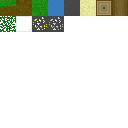
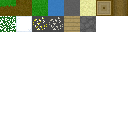
Added new blocks

Changed region(s): [[0.5, 0.0, 0.75, 0.25]]

diff --git a/Source/Block/ChunkMesh.cpp b/Source/Block/ChunkMesh.cpp
@@ -9,10 +9,13 @@ const std::vector<Block> blocks = {
 	{ "Grass", { { 2.f / (float)TEXTURE_ATLAS_SIZE, 0.f }, { 1.f / (float)TEXTURE_ATLAS_SIZE, 0.f }, { 0.f, 0.f }, { 0.f, 0.f }, { 0.f, 0.f }, { 0.f, 0.f } } },
 	{ "Dirt", { { 1.f / (float)TEXTURE_ATLAS_SIZE, 0.f }, { 1.f / (float)TEXTURE_ATLAS_SIZE, 0.f }, { 1.f / (float)TEXTURE_ATLAS_SIZE, 0.f }, { 1.f / (float)TEXTURE_ATLAS_SIZE, 0.f }, { 1.f / (float)TEXTURE_ATLAS_SIZE, 0.f }, { 1.f / (float)TEXTURE_ATLAS_SIZE, 0.f } } },
 	{ "Stone", { { 4.f / (float)TEXTURE_ATLAS_SIZE, 0.f }, { 4.f / (float)TEXTURE_ATLAS_SIZE, 0.f }, { 4.f / (float)TEXTURE_ATLAS_SIZE, 0.f }, { 4.f / (float)TEXTURE_ATLAS_SIZE, 0.f }, { 4.f / (float)TEXTURE_ATLAS_SIZE, 0.f }, { 4.f / (float)TEXTURE_ATLAS_SIZE, 0.f } } },
-	{ "Water", { { 3.f / (float)TEXTURE_ATLAS_SIZE, 0.f }, { 3.f / (float)TEXTURE_ATLAS_SIZE, 0.f }, { 3.f / (float)TEXTURE_ATLAS_SIZE, 0.f }, { 3.f / (float)TEXTURE_ATLAS_SIZE, 0.f }, { 3.f / (float)TEXTURE_ATLAS_SIZE, 0.f }, { 3.f / (float)TEXTURE_ATLAS_SIZE, 0.f } }, Block::TRANSPARENT },
+	{ "Water", { { 3.f / (float)TEXTURE_ATLAS_SIZE, 0.f }, { 3.f / (float)TEXTURE_ATLAS_SIZE, 0.f }, { 3.f / (float)TEXTURE_ATLAS_SIZE, 0.f }, { 3.f / (float)TEXTURE_ATLAS_SIZE, 0.f }, { 3.f / (float)TEXTURE_ATLAS_SIZE, 0.f }, { 3.f / (float)TEXTURE_ATLAS_SIZE, 0.f } }, Block::Flags(Block::TRANSPARENT | Block::LIQUID) },
 	{ "Log", { { 6.f / (float)TEXTURE_ATLAS_SIZE, 0.f }, { 6.f / (float)TEXTURE_ATLAS_SIZE, 0.f }, { 7.f / (float)TEXTURE_ATLAS_SIZE, 0.f }, { 7.f / (float)TEXTURE_ATLAS_SIZE, 0.f }, { 7.f / (float)TEXTURE_ATLAS_SIZE, 0.f }, { 7.f / (float)TEXTURE_ATLAS_SIZE, 0.f } } },
 	{ "Leaves", { { 0.f, 1.f / (float)TEXTURE_ATLAS_SIZE }, { 0.f, 1.f / (float)TEXTURE_ATLAS_SIZE }, { 0.f, 1.f / (float)TEXTURE_ATLAS_SIZE }, { 0.f, 1.f / (float)TEXTURE_ATLAS_SIZE }, { 0.f, 1.f / (float)TEXTURE_ATLAS_SIZE }, { 0.f, 1.f / (float)TEXTURE_ATLAS_SIZE } }, Block::HOLES },
-	{ "Sand", { { 5.f / (float)TEXTURE_ATLAS_SIZE, 0.f }, { 5.f / (float)TEXTURE_ATLAS_SIZE, 0.f }, { 5.f / (float)TEXTURE_ATLAS_SIZE, 0.f }, { 5.f / (float)TEXTURE_ATLAS_SIZE, 0.f }, { 5.f / (float)TEXTURE_ATLAS_SIZE, 0.f }, { 5.f / (float)TEXTURE_ATLAS_SIZE, 0.f } } }
+	{ "Sand", { { 5.f / (float)TEXTURE_ATLAS_SIZE, 0.f }, { 5.f / (float)TEXTURE_ATLAS_SIZE, 0.f }, { 5.f / (float)TEXTURE_ATLAS_SIZE, 0.f }, { 5.f / (float)TEXTURE_ATLAS_SIZE, 0.f }, { 5.f / (float)TEXTURE_ATLAS_SIZE, 0.f }, { 5.f / (float)TEXTURE_ATLAS_SIZE, 0.f } } },
+	{ "Planks", { { 4.f / (float)TEXTURE_ATLAS_SIZE, 1.f / (float)TEXTURE_ATLAS_SIZE }, { 4.f / (float)TEXTURE_ATLAS_SIZE, 1.f / (float)TEXTURE_ATLAS_SIZE }, { 4.f / (float)TEXTURE_ATLAS_SIZE, 1.f / (float)TEXTURE_ATLAS_SIZE }, { 4.f / (float)TEXTURE_ATLAS_SIZE, 1.f / (float)TEXTURE_ATLAS_SIZE }, { 4.f / (float)TEXTURE_ATLAS_SIZE, 1.f / (float)TEXTURE_ATLAS_SIZE }, { 4.f / (float)TEXTURE_ATLAS_SIZE, 1.f / (float)TEXTURE_ATLAS_SIZE } } },
+	{ "Cobblestone", { { 5.f / (float)TEXTURE_ATLAS_SIZE, 1.f / (float)TEXTURE_ATLAS_SIZE }, { 5.f / (float)TEXTURE_ATLAS_SIZE, 1.f / (float)TEXTURE_ATLAS_SIZE }, { 5.f / (float)TEXTURE_ATLAS_SIZE, 1.f / (float)TEXTURE_ATLAS_SIZE }, { 5.f / (float)TEXTURE_ATLAS_SIZE, 1.f / (float)TEXTURE_ATLAS_SIZE }, { 5.f / (float)TEXTURE_ATLAS_SIZE, 1.f / (float)TEXTURE_ATLAS_SIZE }, { 5.f / (float)TEXTURE_ATLAS_SIZE, 1.f / (float)TEXTURE_ATLAS_SIZE } } },
+	{ "Glass", { { 1.f / (float)TEXTURE_ATLAS_SIZE, 1.f / (float)TEXTURE_ATLAS_SIZE }, { 1.f / (float)TEXTURE_ATLAS_SIZE, 1.f / (float)TEXTURE_ATLAS_SIZE }, { 1.f / (float)TEXTURE_ATLAS_SIZE, 1.f / (float)TEXTURE_ATLAS_SIZE }, { 1.f / (float)TEXTURE_ATLAS_SIZE, 1.f / (float)TEXTURE_ATLAS_SIZE }, { 1.f / (float)TEXTURE_ATLAS_SIZE, 1.f / (float)TEXTURE_ATLAS_SIZE }, { 1.f / (float)TEXTURE_ATLAS_SIZE, 1.f / (float)TEXTURE_ATLAS_SIZE } }, Block::TRANSPARENT }
 };
 
 //Block mesh constants
@@ -103,7 +106,7 @@ void ChunkMesh::Update(const UpdateEvent& event) {
 								for (int j = 0; j < 4; j++) {
 									Vertex vertex{};
 									vertex.pos = blockCorners[blockIndices[s * 4 + j]] + blockPos;
-									if (vertex.pos.y == 1.f + blockPos.y) {
+									if ((block.flags & Block::LIQUID) && vertex.pos.y == 1.f + blockPos.y) {
 										vertex.pos.y -= 0.0625f;
 									}
 									vertex.color = { 1.f, 1.f, 1.f };
@@ -117,6 +120,9 @@ void ChunkMesh::Update(const UpdateEvent& event) {
 								for (int j = 0; j < 4; j++) {
 									Vertex vertex{};
 									vertex.pos = blockCorners[blockIndices[s * 4 + j]] + blockPos;
+									if ((block.flags & Block::LIQUID) && vertex.pos.y == 1.f + blockPos.y) {
+										vertex.pos.y -= 0.0625f;
+									}
 									vertex.color = { 1.f, 1.f, 1.f };
 									vertex.normal = blockNormals[s];
 									vertex.uv = blockUvs[j] + block.textureOffsets[s];

diff --git a/Source/Core/Window.cpp b/Source/Core/Window.cpp
@@ -87,24 +87,28 @@ void Window::RefreshCallback(GLFWwindow* window) {
 
 void Window::KeyCallback(GLFWwindow* window, int key, int scancode, int action, int mods) {
 	Window* ptr = reinterpret_cast<Window*>(glfwGetWindowUserPointer(window));
-	if (action != GLFW_REPEAT && key != GLFW_KEY_UNKNOWN) {
+	if (ptr->app.IsInitialized() && action != GLFW_REPEAT && key != GLFW_KEY_UNKNOWN) {
 		ptr->inputSystem->HandleKey(key, scancode, action, mods);
 	}
 }
 
 void Window::MouseButtonCallback(GLFWwindow* window, int button, int action, int mods) {
 	Window* ptr = reinterpret_cast<Window*>(glfwGetWindowUserPointer(window));
-	if (action != GLFW_REPEAT) {
+	if (ptr->app.IsInitialized() && action != GLFW_REPEAT) {
 		ptr->inputSystem->HandleMouseButton(button, action, mods);
 	}
 }
 
 void Window::MouseMoveCallback(GLFWwindow* window, double xpos, double ypos) {
 	Window* ptr = reinterpret_cast<Window*>(glfwGetWindowUserPointer(window));
-	ptr->inputSystem->HandleMouseMove(static_cast<float>(xpos), static_cast<float>(ypos));
+	if (ptr->app.IsInitialized()) {
+		ptr->inputSystem->HandleMouseMove(static_cast<float>(xpos), static_cast<float>(ypos));
+	}
 }
 
 void Window::MouseScrollCallback(GLFWwindow* window, double xoffset, double yoffset) {
 	Window* ptr = reinterpret_cast<Window*>(glfwGetWindowUserPointer(window));
-	ptr->inputSystem->HandleMouseScroll(static_cast<float>(xoffset), static_cast<float>(yoffset));
+	if (ptr->app.IsInitialized()) {
+		ptr->inputSystem->HandleMouseScroll(static_cast<float>(xoffset), static_cast<float>(yoffset));
+	}
 }

diff --git a/Source/GFX/CameraController.cpp b/Source/GFX/CameraController.cpp
@@ -79,12 +79,19 @@ void CameraController::Update(const UpdateEvent& event) {
 		glm::vec3 dir = camera.Forward();
 		BlockHitInfo info{};
 		if (manager.VoxelRaytrace(pos, dir, MAX_INTERACT_DISTANCE, info)) {
-			manager.PlaceBlock(info.blockPos + glm::ivec3(info.normal), 1, event);
+			manager.PlaceBlock(info.blockPos + glm::ivec3(info.normal), selectedBlock + 1, event);
 		}
 	}
 	else {
 		breakCooldown += event.deltaTime;
 	}
+
+	selectedBlock += int(event.input.GetScrollDelta().y);
+	selectedBlock %= blocks.size();
+	//std::cout << selectedBlock << std::endl;
+
+	//if (event.input.GetScrollDelta().y > 0)
+	//	std::cout << blocks[selectedBlock].name << std::endl;
 }
 
 void CameraController::Tick(const TickEvent& event) {

diff --git a/Source/Core/App.cpp b/Source/Core/App.cpp
@@ -73,7 +73,7 @@ void App::ReDraw() {
 		ubo.view = camera.View();
 		ubo.invView = camera.InvView();
 		ubo.proj = camera.Proj();
-		ubo.fogClose = (RENDER_DISTANCE - 2.5f) * (float)CHUNK_SIZE;
+		ubo.fogClose = (RENDER_DISTANCE - 1.5f) * (float)CHUNK_SIZE;
 		ubo.fogDist = 10.f;
 		const float* color = renderer["Global"]["Color"].clearValue.color.float32;
 		ubo.fogColor = glm::vec4(color[0], color[1], color[2], 1.f);

diff --git a/Source/Block/ChunkManager.h b/Source/Block/ChunkManager.h
@@ -6,7 +6,7 @@
 #include "Block.h"
 #include "Noise\Noise.h"
 
-constexpr int RENDER_DISTANCE = 16;
+constexpr int RENDER_DISTANCE = 12;
 
 struct ChunkComparator {
 	bool operator()(const glm::ivec2& a, const glm::ivec2& b) const {

diff --git a/Source/GFX/CameraController.h b/Source/GFX/CameraController.h
@@ -17,4 +17,5 @@ private:
 	float sprintCooldown = 0.f;
 	bool sprinting = false;
 	float breakCooldown = 0.f;
+	int selectedBlock = 0;
 };
